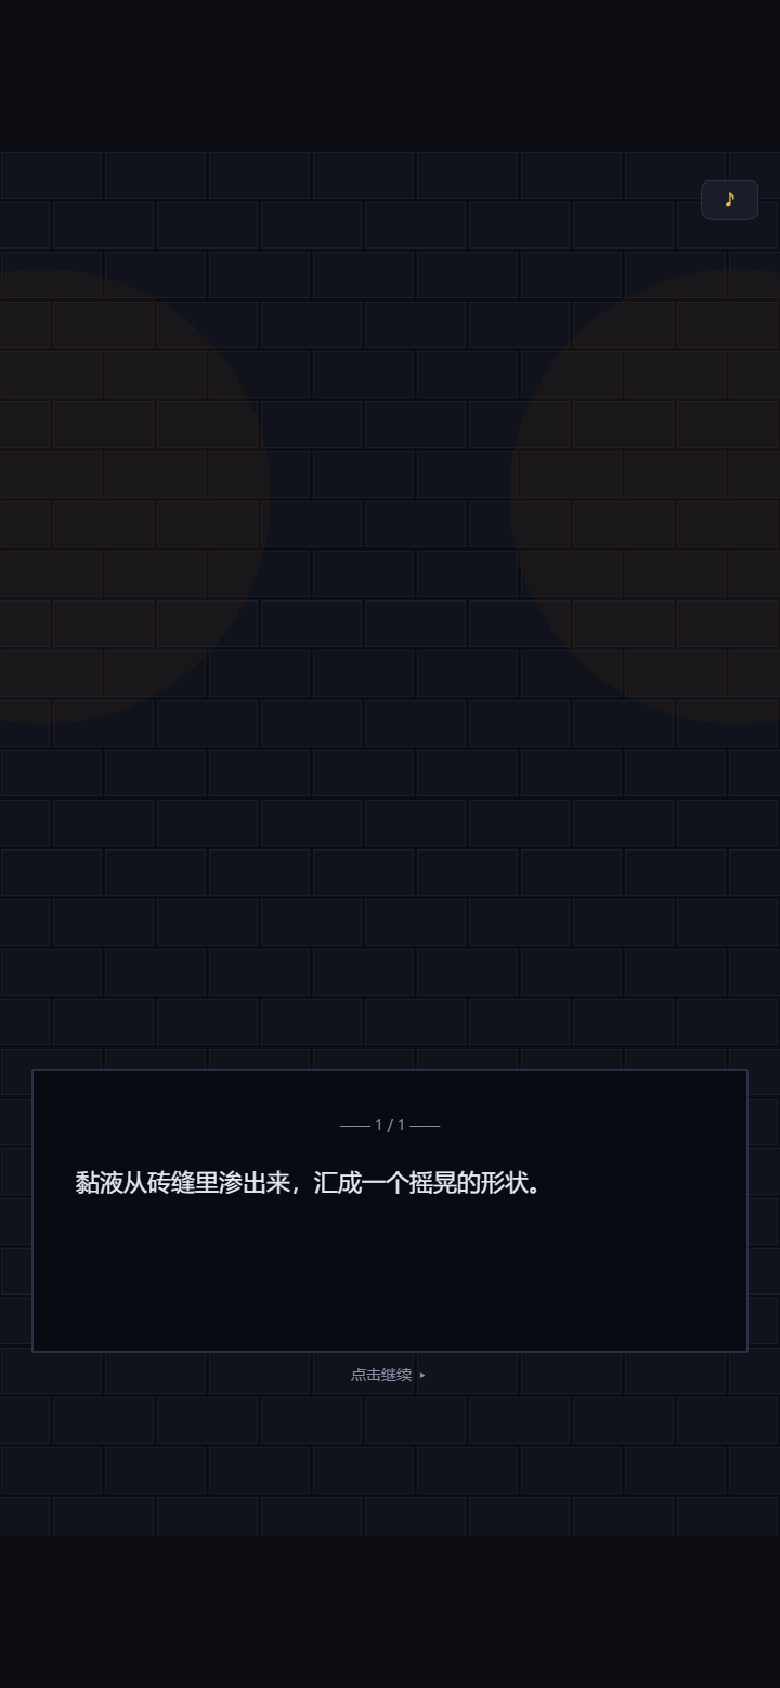
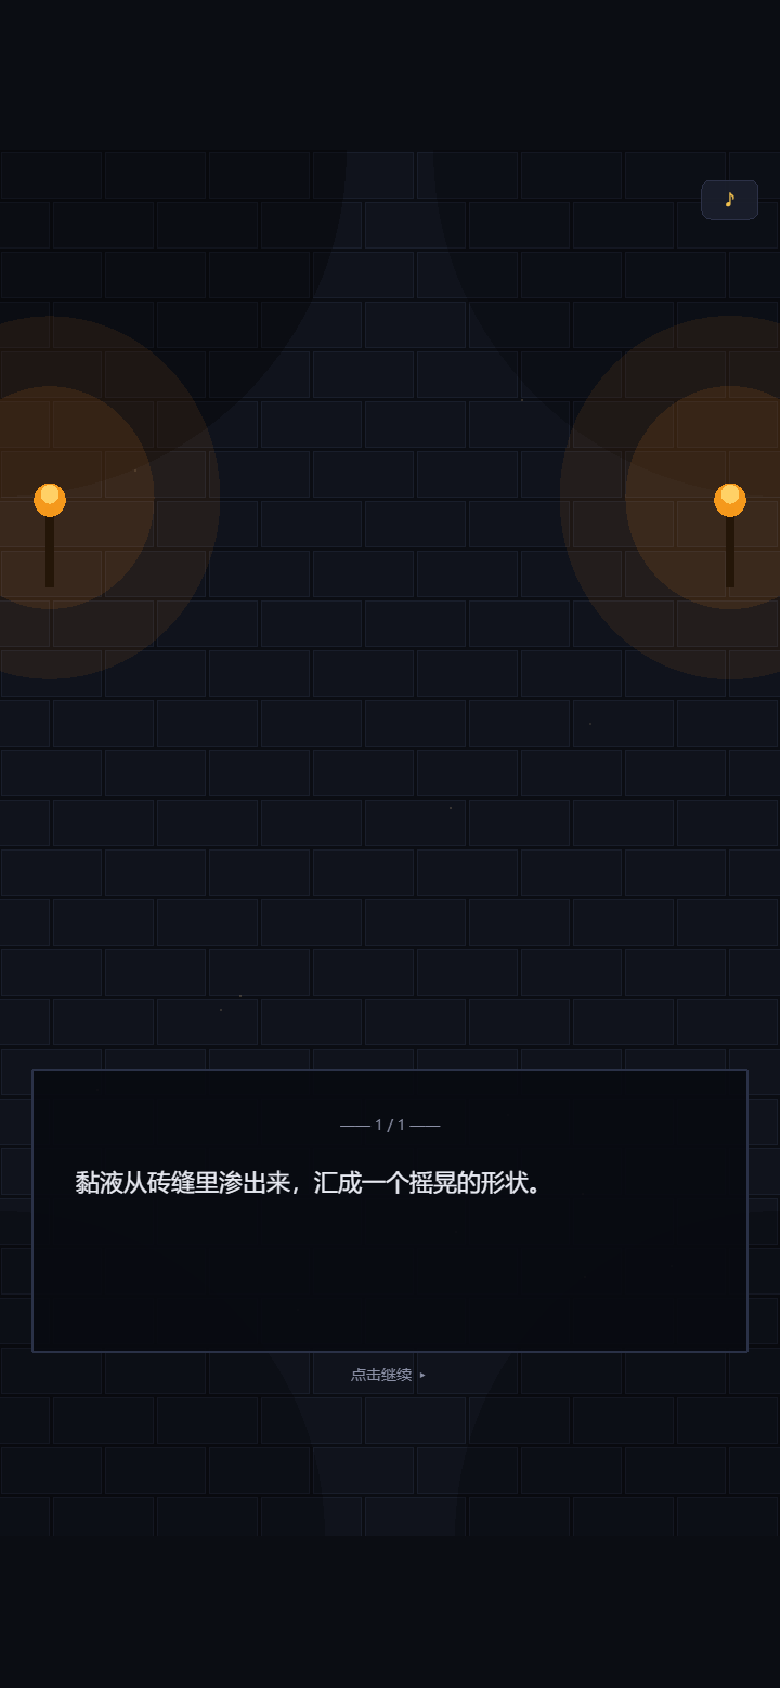
feat: 商店刷新 + 遗物系统 + 精英战 + 火把/浮尘/雾层动画

Changed region(s): [[0.8, 0.2156, 1.0, 0.3697], [0.0, 0.2156, 0.2154, 0.3697]]

diff --git a/index.html b/index.html
@@ -78,10 +78,19 @@
     },
   ];
 
+  const RELICS = [
+    { id: 'bloodstone', name: '血石', icon: '◆', desc: '每场战斗开始时回复 6 点生命', color: '#ff6b6b' },
+    { id: 'dagger', name: '锈匕首', icon: '†', desc: '攻击牌额外造成 2 点伤害', color: '#ffd54f' },
+    { id: 'amulet', name: '守夜护符', icon: '◇', desc: '每回合开始获得 3 点格挡', color: '#8ab4f8' },
+    { id: 'ember', name: '不熄余烬', icon: '✧', desc: '每回合多 1 点能量', color: '#ffb74d' },
+    { id: 'wolffang', name: '狼牙', icon: '☾', desc: '击败敌人后回复 10 点生命', color: '#b39ddb' },
+    { id: 'coin', name: '盗贼钱袋', icon: '♦', desc: '战斗奖励金币 +50%', color: '#f2c14e' },
+  ];
+
   const NODES = [
     { type: 'battle', enemy: 0, label: '地窖入口', icon: '⚔' },
     { type: 'event', label: '迷雾岔路', icon: '?' },
-    { type: 'battle', enemy: 1, label: '腐木林', icon: '⚔' },
+    { type: 'battle', enemy: 1, label: '腐木林', icon: '⚔', elite: true },
     { type: 'rest', label: '篝火', icon: '♨' },
     { type: 'shop', label: '漂泊商人', icon: '◆' },
     { type: 'battle', enemy: 2, label: '龙巢', icon: '☠', boss: true },
@@ -210,6 +219,7 @@
       hp: CONFIG.MAX_HP, maxHp: CONFIG.MAX_HP,
       gold: 10, strength: 0,
       deck: [],
+      relics: [],
       phase: 'title',
       nodes: NODES.map((n) => ({ ...n, done: false })),
       nodeIdx: 0,
@@ -228,6 +238,13 @@
     return run;
   }
 
+  function hasRelic(run, id) { return run.relics.indexOf(id) >= 0; }
+
+  function addRelic(run, id) {
+    if (hasRelic(run, id)) return;
+    run.relics.push(id);
+  }
+
   function enemyOf(idx) {
     return ENEMIES[Math.min(idx, ENEMIES.length - 1)];
   }
@@ -238,6 +255,7 @@
 
   // ── 战斗 ───────────────────────────────────────────────────
   function startBattle(run, enemyIdx) {
+    if (hasRelic(run, 'bloodstone')) run.hp = Math.min(run.maxHp, run.hp + 6);
     const e = enemyOf(enemyIdx);
     run.battle = {
       enemyIdx,
@@ -264,8 +282,8 @@
   function beginTurn(run) {
     const b = run.battle;
     b.turn++;
-    b.block = 0;
-    b.energy = CONFIG.ENERGY;
+    b.block = hasRelic(run, 'amulet') ? 3 : 0;
+    b.energy = CONFIG.ENERGY + (hasRelic(run, 'ember') ? 1 : 0);
     if (b.enemyVuln > 0) b.enemyVuln--;
     if (b.playerWeak > 0) b.playerWeak--;
     drawCards(run, CONFIG.DRAW);
@@ -296,7 +314,7 @@
   function applyOp(run, op) {
     const b = run.battle;
     if (op.k === 'damage') {
-      let dmg = attackDamage(run, op.v);
+      let dmg = attackDamage(run, op.v + (hasRelic(run, 'dagger') ? 2 : 0));
       if (b.enemyVuln > 0) dmg = Math.floor(dmg * CONFIG.VULN_MULT);
       const absorbed = Math.min(b.enemyBlock, dmg);
       b.enemyBlock -= absorbed;
@@ -427,9 +445,13 @@
       run.phase = 'rest';
     } else if (node.type === 'shop') {
       const pool = shuffle(REWARD_POOL.slice(), run.rng).slice(0, 3);
+      const relicPool = RELICS.filter((r) => run.relics.indexOf(r.id) < 0);
       run.shop = {
         cards: pool.map((t, i) => ({ type: t, price: 40 + i * 10, bought: false })),
+        relic: relicPool.length ? relicPool[Math.floor(run.rng() * relicPool.length)].id : null,
+        relicBought: false,
         healBought: false,
+        refreshCount: 0,
       };
       run.phase = 'shop';
     }
@@ -443,12 +465,23 @@
       return;
     }
     const node = currentNode(run);
-    const gold = node && node.boss ? CONFIG.GOLD_ELITE : CONFIG.GOLD_WIN;
+    let gold = node && node.boss ? CONFIG.GOLD_ELITE : CONFIG.GOLD_WIN;
+    if (node && node.elite) gold += 16;
+    if (hasRelic(run, 'coin')) gold = Math.floor(gold * 1.5);
+    if (hasRelic(run, 'wolffang')) run.hp = Math.min(run.maxHp, run.hp + 10);
     run.gold += gold;
     run.battle = null;
+    let relic = null;
+    if (node && node.elite) {
+      const owned = run.relics;
+      const pool = RELICS.filter((r) => owned.indexOf(r.id) < 0);
+      if (pool.length) relic = pool[Math.floor(run.rng() * pool.length)].id;
+    }
     run.reward = {
       gold,
       cards: shuffle(REWARD_POOL.slice(), run.rng).slice(0, 3),
+      relic,
+      relicTaken: false,
       picked: false,
     };
     run.phase = 'reward';
@@ -520,6 +553,30 @@
     run.log = `买下「${CARD_DEFS[item.type].name}」。`;
   }
 
+  function refreshShop(run) {
+    if (run.phase !== 'shop' || !run.shop) return;
+    const cost = 1 + run.shop.refreshCount;
+    if (run.gold < cost) { run.log = '金币不够，刷不起了。'; return; }
+    run.gold -= cost;
+    run.shop.refreshCount++;
+    const pool = shuffle(REWARD_POOL.slice(), run.rng).slice(0, 3);
+    run.shop.cards = pool.map((t, i) => ({ type: t, price: 40 + i * 10, bought: false }));
+    if (!run.shop.relicBought) {
+      const relicPool = RELICS.filter((r) => run.relics.indexOf(r.id) < 0);
+      run.shop.relic = relicPool.length ? relicPool[Math.floor(run.rng() * relicPool.length)].id : null;
+    }
+    run.log = `刷新了一次，花了 ${cost} 金。`;
+  }
+
+  function buyRelic(run) {
+    if (run.phase !== 'shop' || !run.shop || run.shop.relicBought || !run.shop.relic) return;
+    if (run.gold < 70) { run.log = '金币不够。'; return; }
+    run.gold -= 70;
+    run.shop.relicBought = true;
+    addRelic(run, run.shop.relic);
+    run.log = '买下了一件遗物。';
+  }
+
   function buyHeal(run) {
     if (run.shop.healBought || run.gold < 30) return;
     run.gold -= 30;
@@ -550,7 +607,7 @@
     CONFIG, KEYWORDS, CARD_DEFS, ENEMIES, EVENTS, NODES,
     newRun, enterNode, startBattle, playCard, endTurn, canPlay, battleIntent,
     finishBattle, pickReward, applyEventChoice, leaveEvent,
-    buyCard, buyHeal, leaveShop, restHeal, restRemove, advanceNode,
+    buyCard, buyHeal, buyRelic, refreshShop, leaveShop, restHeal, restRemove, advanceNode, hasRelic,
   };
 
   // ─────────────────────────────────────────────────────────────
@@ -768,10 +825,86 @@
           g.strokeRect(x + 2, y + 2, bw - 4, bh - 4);
         }
       }
-      g.fillStyle(0x3a2410, 0.22);
-      g.fillCircle(40, 320, 210);
-      g.fillCircle(W - 40, 320, 210);
+      // 暗角
+      g.fillStyle(0x000000, 0.32);
+      g.fillCircle(0, 0, 320);
+      g.fillStyle(0x000000, 0.22);
+      g.fillCircle(W, 0, 320);
+      g.fillCircle(0, H, 300);
+      g.fillCircle(W, H, 300);
+      this.torch(38, 360);
+      this.torch(W - 38, 360);
+      this.fog();
+      this.dust();
       return g;
+    }
+
+    torch(x, y) {
+      const c = this.add.container(x, y);
+      const glow = this.add.graphics();
+      glow.fillStyle(0xff8c1a, 0.08);
+      glow.fillCircle(0, -16, 210);
+      glow.fillStyle(0xff8c1a, 0.12);
+      glow.fillCircle(0, -16, 120);
+      const g = this.add.graphics();
+      g.fillStyle(0x2a1a0c, 1);
+      g.fillRect(-6, 4, 12, 84);
+      g.fillStyle(0x3a2410, 1);
+      g.fillRect(-9, 82, 18, 12);
+      g.fillStyle(0xff6b1a, 0.92);
+      g.fillCircle(0, -14, 24);
+      g.fillStyle(0xffa726, 1);
+      g.fillCircle(0, -20, 16);
+      g.fillStyle(0xffe082, 1);
+      g.fillCircle(0, -26, 8);
+      c.add([glow, g]);
+      this.tweens.add({ targets: c, scaleX: 1.06, scaleY: 1.14, duration: 320 + Math.random() * 160, yoyo: true, repeat: -1, ease: 'Sine.easeInOut' });
+      this.tweens.add({ targets: glow, alpha: 0.5, duration: 1400 + Math.random() * 600, yoyo: true, repeat: -1 });
+      return c;
+    }
+
+    fog() {
+      for (let i = 0; i < 3; i++) {
+        const f = this.add.ellipse(W * (0.25 + i * 0.25), 380 + i * 300, 560, 200, 0x2c3a5c, 0.05);
+        this.tweens.add({ targets: f, x: f.x + 110, duration: 9000 + i * 2400, yoyo: true, repeat: -1, ease: 'Sine.easeInOut' });
+      }
+    }
+
+    dust() {
+      for (let i = 0; i < 14; i++) {
+        const x = 30 + Math.random() * (W - 60);
+        const y = 160 + Math.random() * 980;
+        const p = this.add.rectangle(x, y, 3, 3, 0xffd9a0).setAlpha(0.2 + Math.random() * 0.2);
+        const drift = 40 + Math.random() * 60;
+        this.tweens.add({
+          targets: p, y: y - 160 - Math.random() * 200, x: x + (Math.random() - 0.5) * 50,
+          alpha: 0, duration: 5000 + Math.random() * 5000, repeat: -1, ease: 'Linear',
+          onRepeat: () => { p.y = y; p.x = x; p.alpha = 0.16; },
+        });
+      }
+    }
+
+    drawRelics(run, x, y) {
+      run.relics.forEach((id, i) => {
+        const r = RELICS.find((z) => z.id === id);
+        if (!r) return;
+        const g = this.add.graphics();
+        g.fillStyle(0x12151f, 0.96);
+        g.fillRoundedRect(-16, -16, 32, 32, 8);
+        g.lineStyle(1, Phaser.Display.Color.HexStringToColor(r.color).color, 0.8);
+        g.strokeRoundedRect(-16, -16, 32, 32, 8);
+        const t = this.text(0, 0, r.icon, 17, r.color);
+        const c = this.add.container(x + i * 42, y, [g, t]);
+        c.setSize(32, 32);
+        c.setInteractive(new Phaser.Geom.Rectangle(-16, -16, 32, 32), Phaser.Geom.Rectangle.Contains);
+        const show = () => this.showTip(c.x, c.y - 52, [
+          { text: r.name, color: r.color, size: 15 },
+          { text: r.desc, color: '#c9cde0' },
+        ]);
+        c.on('pointerover', show);
+        c.on('pointerdown', show);
+        c.on('pointerout', () => this.hideTip());
+      });
     }
 
     // ── 主渲染分派 ──────────────────────────────────────────
@@ -859,6 +992,9 @@
         this.text(180, y + 18, sub, 13, isDone ? '#3a4055' : '#8b90a6').setOrigin(0, 0.5);
 
         if (isCurrent) {
+          const pulse = this.add.rectangle(W / 2, y, W - 120, 96, 0x3b5bdb, 0);
+          pulse.setStrokeStyle(2, 0x8ab4f8);
+          this.tweens.add({ targets: pulse, alpha: 0.0, duration: 900, yoyo: true, repeat: -1 });
           const hit = this.add.zone(W / 2, y, W - 120, 96).setOrigin(0.5).setInteractive();
           hit.on('pointerdown', () => { this.sfx('tap'); enterNode(run); this.scheduleRender(); });
         }
@@ -868,6 +1004,7 @@
       this.text(30, 60, `生命 ${run.hp}/${run.maxHp}`, 16, '#ff8a80').setOrigin(0, 0.5);
       this.text(W - 92, 46, `金币 ${run.gold}`, 16, COL.gold).setOrigin(1, 0.5);
       if (run.strength) this.text(W / 2, 60, `力量 +${run.strength}`, 15, '#ffd54f');
+      this.drawRelics(run, 40, 1180);
     }
 
     // ── 战斗 ────────────────────────────────────────────────
@@ -877,6 +1014,7 @@
 
       this.text(W / 2, 42, e.name, 22, COL.text);
       this.text(20, 84, `回合 ${b.turn}`, 15, COL.dim).setOrigin(0, 0.5);
+      this.drawRelics(run, 40, 128);
       this.text(W - 92, 46, `金币 ${run.gold}`, 15, COL.gold).setOrigin(1, 0.5);
 
       // 敌人
@@ -887,6 +1025,9 @@
       halo.fillCircle(L.enemy.x, L.enemy.y, L.enemy.r + 8);
       const img = this.add.image(L.enemy.x, L.enemy.y, e.icon).setDisplaySize(L.enemy.r * 2.1, L.enemy.r * 2.1);
       this.enemyImg = img;
+      const bs = img.scaleX, bsY = img.scaleY;
+      this.tweens.add({ targets: img, scaleX: bs * 1.03, scaleY: bsY * 0.97, duration: 1600, yoyo: true, repeat: -1, ease: 'Sine.easeInOut' });
+      this.tweens.add({ targets: halo, alpha: 0.55, duration: 2200, yoyo: true, repeat: -1, ease: 'Sine.easeInOut' });
 
       this.text(L.enemy.x, L.enemy.y - L.enemy.r - 52, `HP ${b.enemyHp}/${b.enemyMax}`, 19, COL.text);
       this.bar(L.enemy.x - 130, L.enemy.y + L.enemy.r + 26, 260, 18, b.enemyHp / b.enemyMax, COL.red);
@@ -916,7 +1057,10 @@
       pg.fillCircle(p.x, p.y, p.r + 4);
       pg.lineStyle(2, 0x3fbf7f, 0.3);
       pg.strokeCircle(p.x, p.y, p.r + 4);
-      this.add.image(p.x, p.y, 'hero').setDisplaySize(p.r * 2.2, p.r * 2.2);
+      const hero = this.add.image(p.x, p.y, 'hero').setDisplaySize(p.r * 2.2, p.r * 2.2);
+      const hs = hero.scaleX, hsY = hero.scaleY;
+      this.tweens.add({ targets: hero, scaleX: hs * 1.025, scaleY: hsY * 0.975, duration: 1800, yoyo: true, repeat: -1, ease: 'Sine.easeInOut' });
+      this.tweens.add({ targets: pg, alpha: 0.55, duration: 2000, yoyo: true, repeat: -1, ease: 'Sine.easeInOut' });
 
       this.text(p.x, p.y - p.r - 40, `你 · HP ${run.hp}/${run.maxHp}`, 19, COL.text);
       this.bar(p.x - 110, p.y + p.r + 20, 220, 16, run.hp / run.maxHp, COL.green);
@@ -987,12 +1131,12 @@
       r.cards.forEach((type, i) => {
         const d = CARD_DEFS[type];
         const card = { uid: -1 - i, type, name: d.name, cost: d.cost, type2: d.type, text: d.text, ops: d.ops, kw: d.kw };
-        this.cardView(card, startX + i * (cw + gap), 520, {
+        this.cardView(card, startX + i * (cw + gap), 560, {
           w: 150, h: 200, big: true,
           onClick: () => { pickReward(run, type); this.scheduleRender(); },
         });
       });
-      this.button(W / 2, 720, 200, 50, '跳过', () => { pickReward(run, null); this.scheduleRender(); }, 0x2a3550);
+      this.button(W / 2, 770, 200, 50, '跳过', () => { pickReward(run, null); this.scheduleRender(); }, 0x2a3550);
     }
 
     // ── 奇遇 ────────────────────────────────────────────────
@@ -1030,15 +1174,15 @@
     // ── 商店 ────────────────────────────────────────────────
     renderShop(run) {
       const shop = run.shop;
-      this.text(W / 2, 130, '漂泊商人', 30, COL.gold);
-      this.text(W / 2, 172, '「只收金币，不讲价。」', 15, COL.dim);
+      this.text(W / 2, 110, '漂泊商人', 30, COL.gold);
+      this.text(W / 2, 148, '「只收金币，不讲价。」', 15, COL.dim);
 
+      // 三张卡
       shop.cards.forEach((item, i) => {
         const d = CARD_DEFS[item.type];
         const card = { uid: -100 - i, type: item.type, name: d.name, cost: d.cost, type2: d.type, text: d.text, ops: d.ops, kw: d.kw };
-        const y = 380 + i * 0;
         const x = 200 + i * 160;
-        this.cardView(card, x, 400, {
+        this.cardView(card, x, 350, {
           w: 140, h: 190,
           onClick: () => {
             if (item.bought) return;
@@ -1048,20 +1192,45 @@
             this.scheduleRender();
           },
         });
-        this.text(x, 530, item.bought ? '已售出' : `${item.price} 金`, 16, item.bought ? '#4a5066' : COL.gold);
+        this.text(x, 476, item.bought ? '已售出' : `${item.price} 金`, 16, item.bought ? '#4a5066' : COL.gold);
       });
 
-      this.button(W / 2, 700, W - 160, 58, shop.healBought ? '热汤（已喝过）' : '热汤 · 25 生命 / 30 金', () => {
+      // 遗物
+      const relic = shop.relic ? RELICS.find((r) => r.id === shop.relic) : null;
+      if (relic) {
+        this.add.rectangle(W / 2, 580, W - 140, 76, 0x10141f, 0.95).setStrokeStyle(1, 0x2c3147);
+        this.text(150, 580, relic.icon, 26, relic.color);
+        this.text(200, 568, relic.name, 19, relic.color).setOrigin(0, 0.5);
+        this.text(200, 598, relic.desc, 13, '#c9cde0').setOrigin(0, 0.5);
+        this.button(W - 110, 580, 130, 52, shop.relicBought ? '已买' : '70 金', () => {
+          if (shop.relicBought || run.gold < 70) { this.sfx('deny'); return; }
+          buyRelic(run);
+          this.sfx('coin');
+          this.scheduleRender();
+        }, 0x7a4bd9, shop.relicBought || run.gold < 70);
+      }
+
+      // 热汤
+      this.button(W / 2, 676, W - 160, 54, shop.healBought ? '热汤（已喝过）' : '热汤 · 回复 25 生命 / 30 金', () => {
         if (shop.healBought || run.gold < 30) { this.sfx('deny'); return; }
         buyHeal(run);
         this.sfx('coin');
         this.scheduleRender();
       }, 0x2f6a4a, shop.healBought || run.gold < 30);
 
+      // 刷新
+      const cost = 1 + shop.refreshCount;
+      this.button(W / 2, 748, W - 160, 54, `刷新货架 · ${cost} 金`, () => {
+        if (run.gold < cost) { this.sfx('deny'); return; }
+        refreshShop(run);
+        this.sfx('coin');
+        this.scheduleRender();
+      }, 0x3b5bdb, run.gold < cost);
+
       this.text(30, 60, `生命 ${run.hp}/${run.maxHp}`, 16, '#ff8a80').setOrigin(0, 0.5);
       this.text(W - 92, 46, `金币 ${run.gold}`, 16, COL.gold).setOrigin(1, 0.5);
-      if (run.log) this.text(W / 2, 800, run.log, 15, COL.gold);
-      this.button(W / 2, 880, 220, 54, '离开', () => { this.sfx('tap'); leaveShop(run); this.scheduleRender(); }, 0x2a3550);
+      if (run.log) this.text(W / 2, 830, run.log, 15, COL.gold);
+      this.button(W / 2, 900, 220, 54, '离开', () => { this.sfx('tap'); leaveShop(run); this.scheduleRender(); }, 0x2a3550);
     }
 
     // ── 篝火 ────────────────────────────────────────────────
